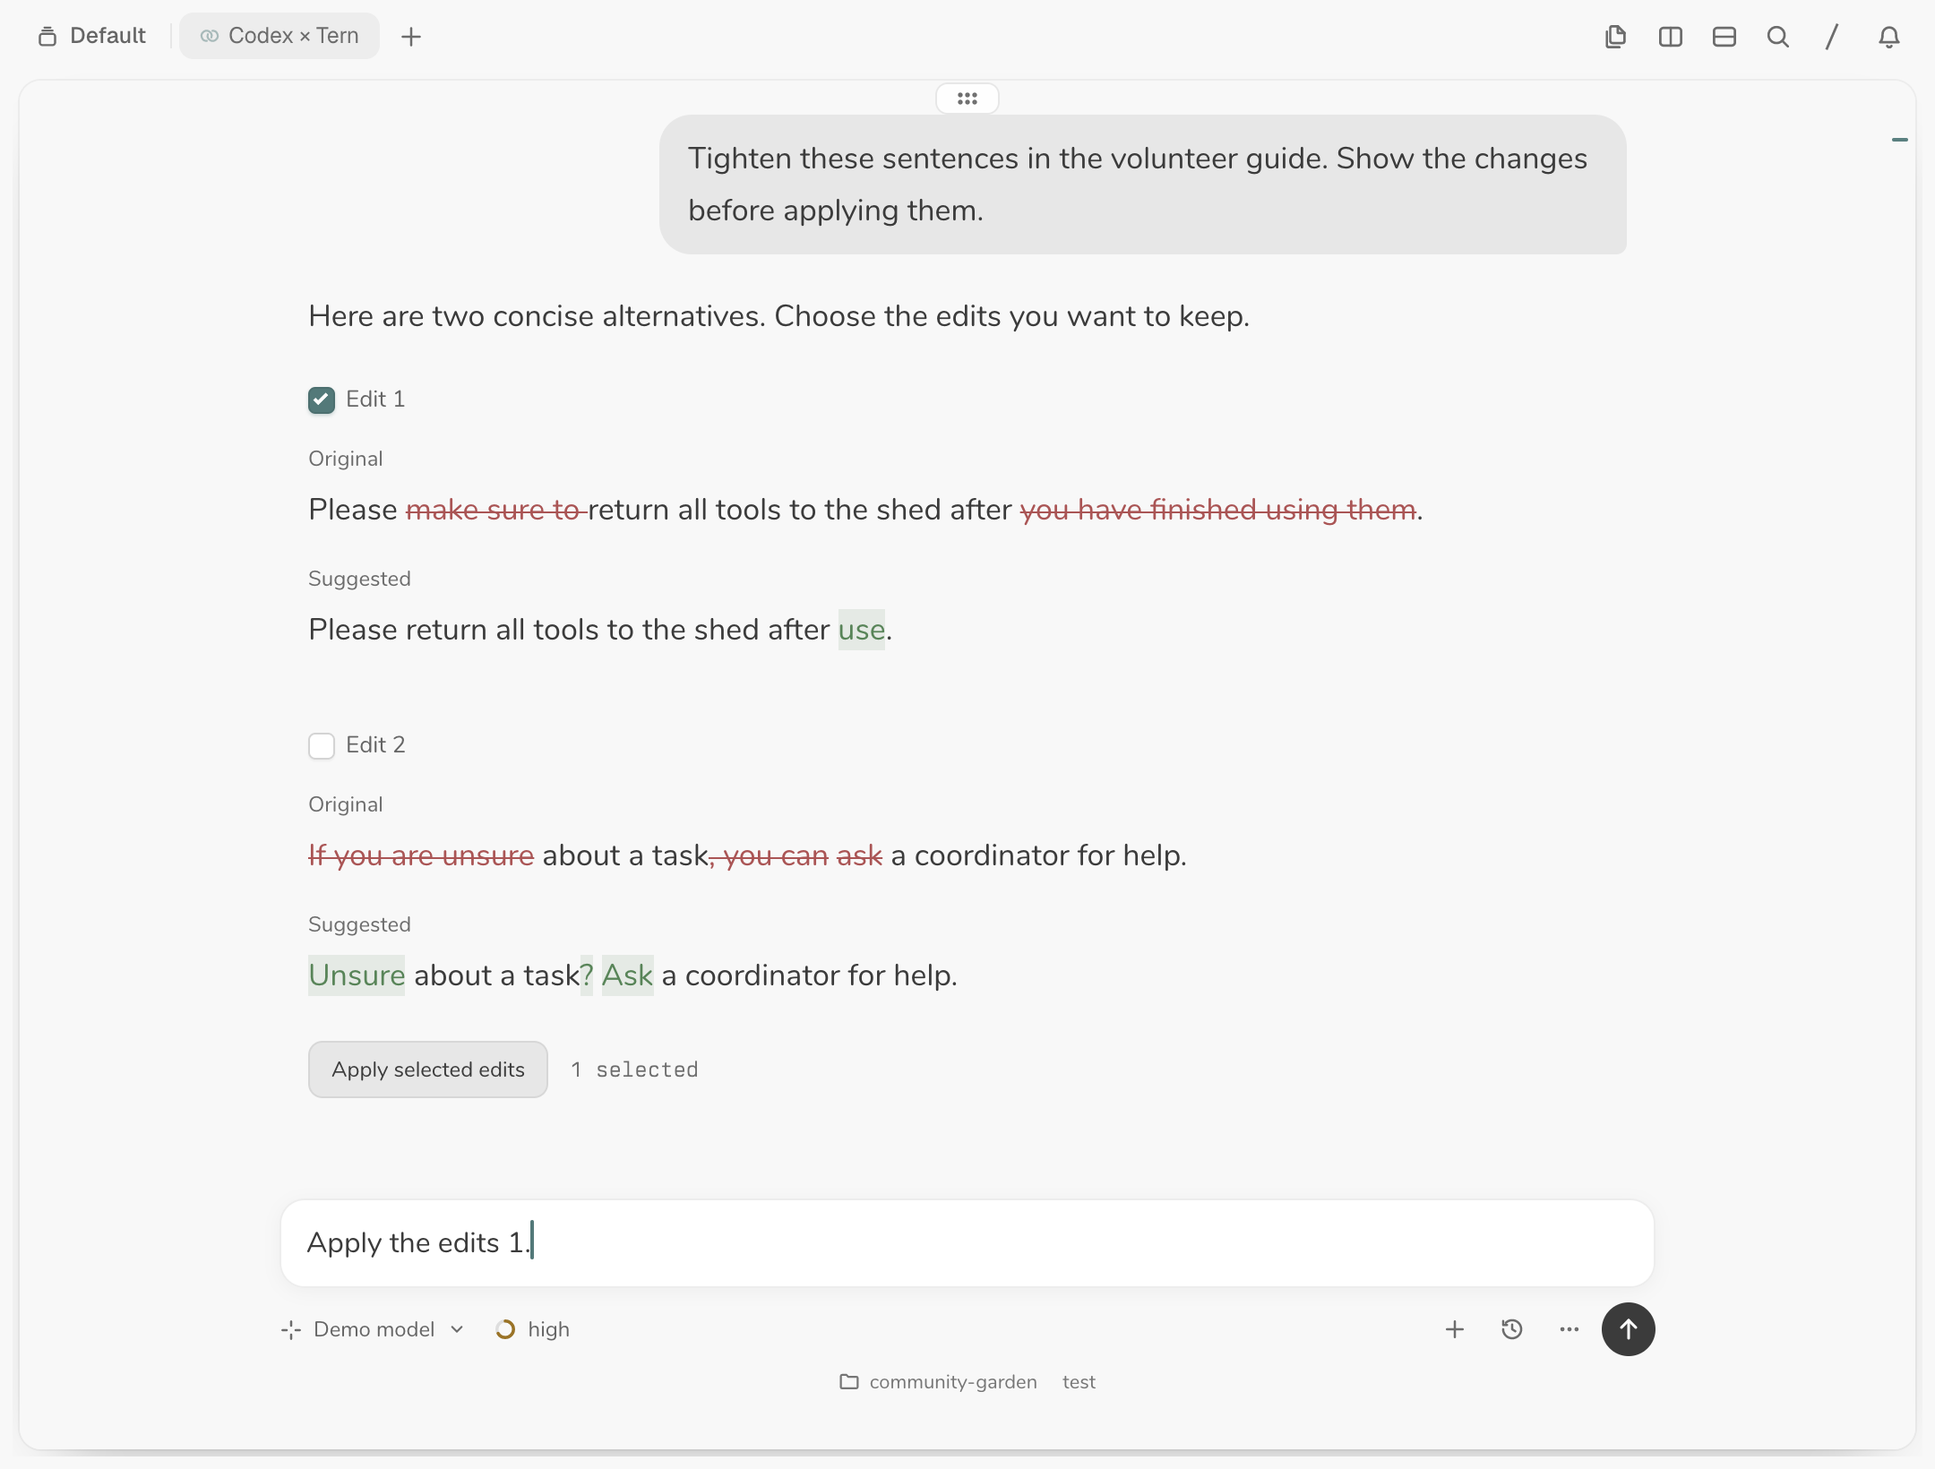
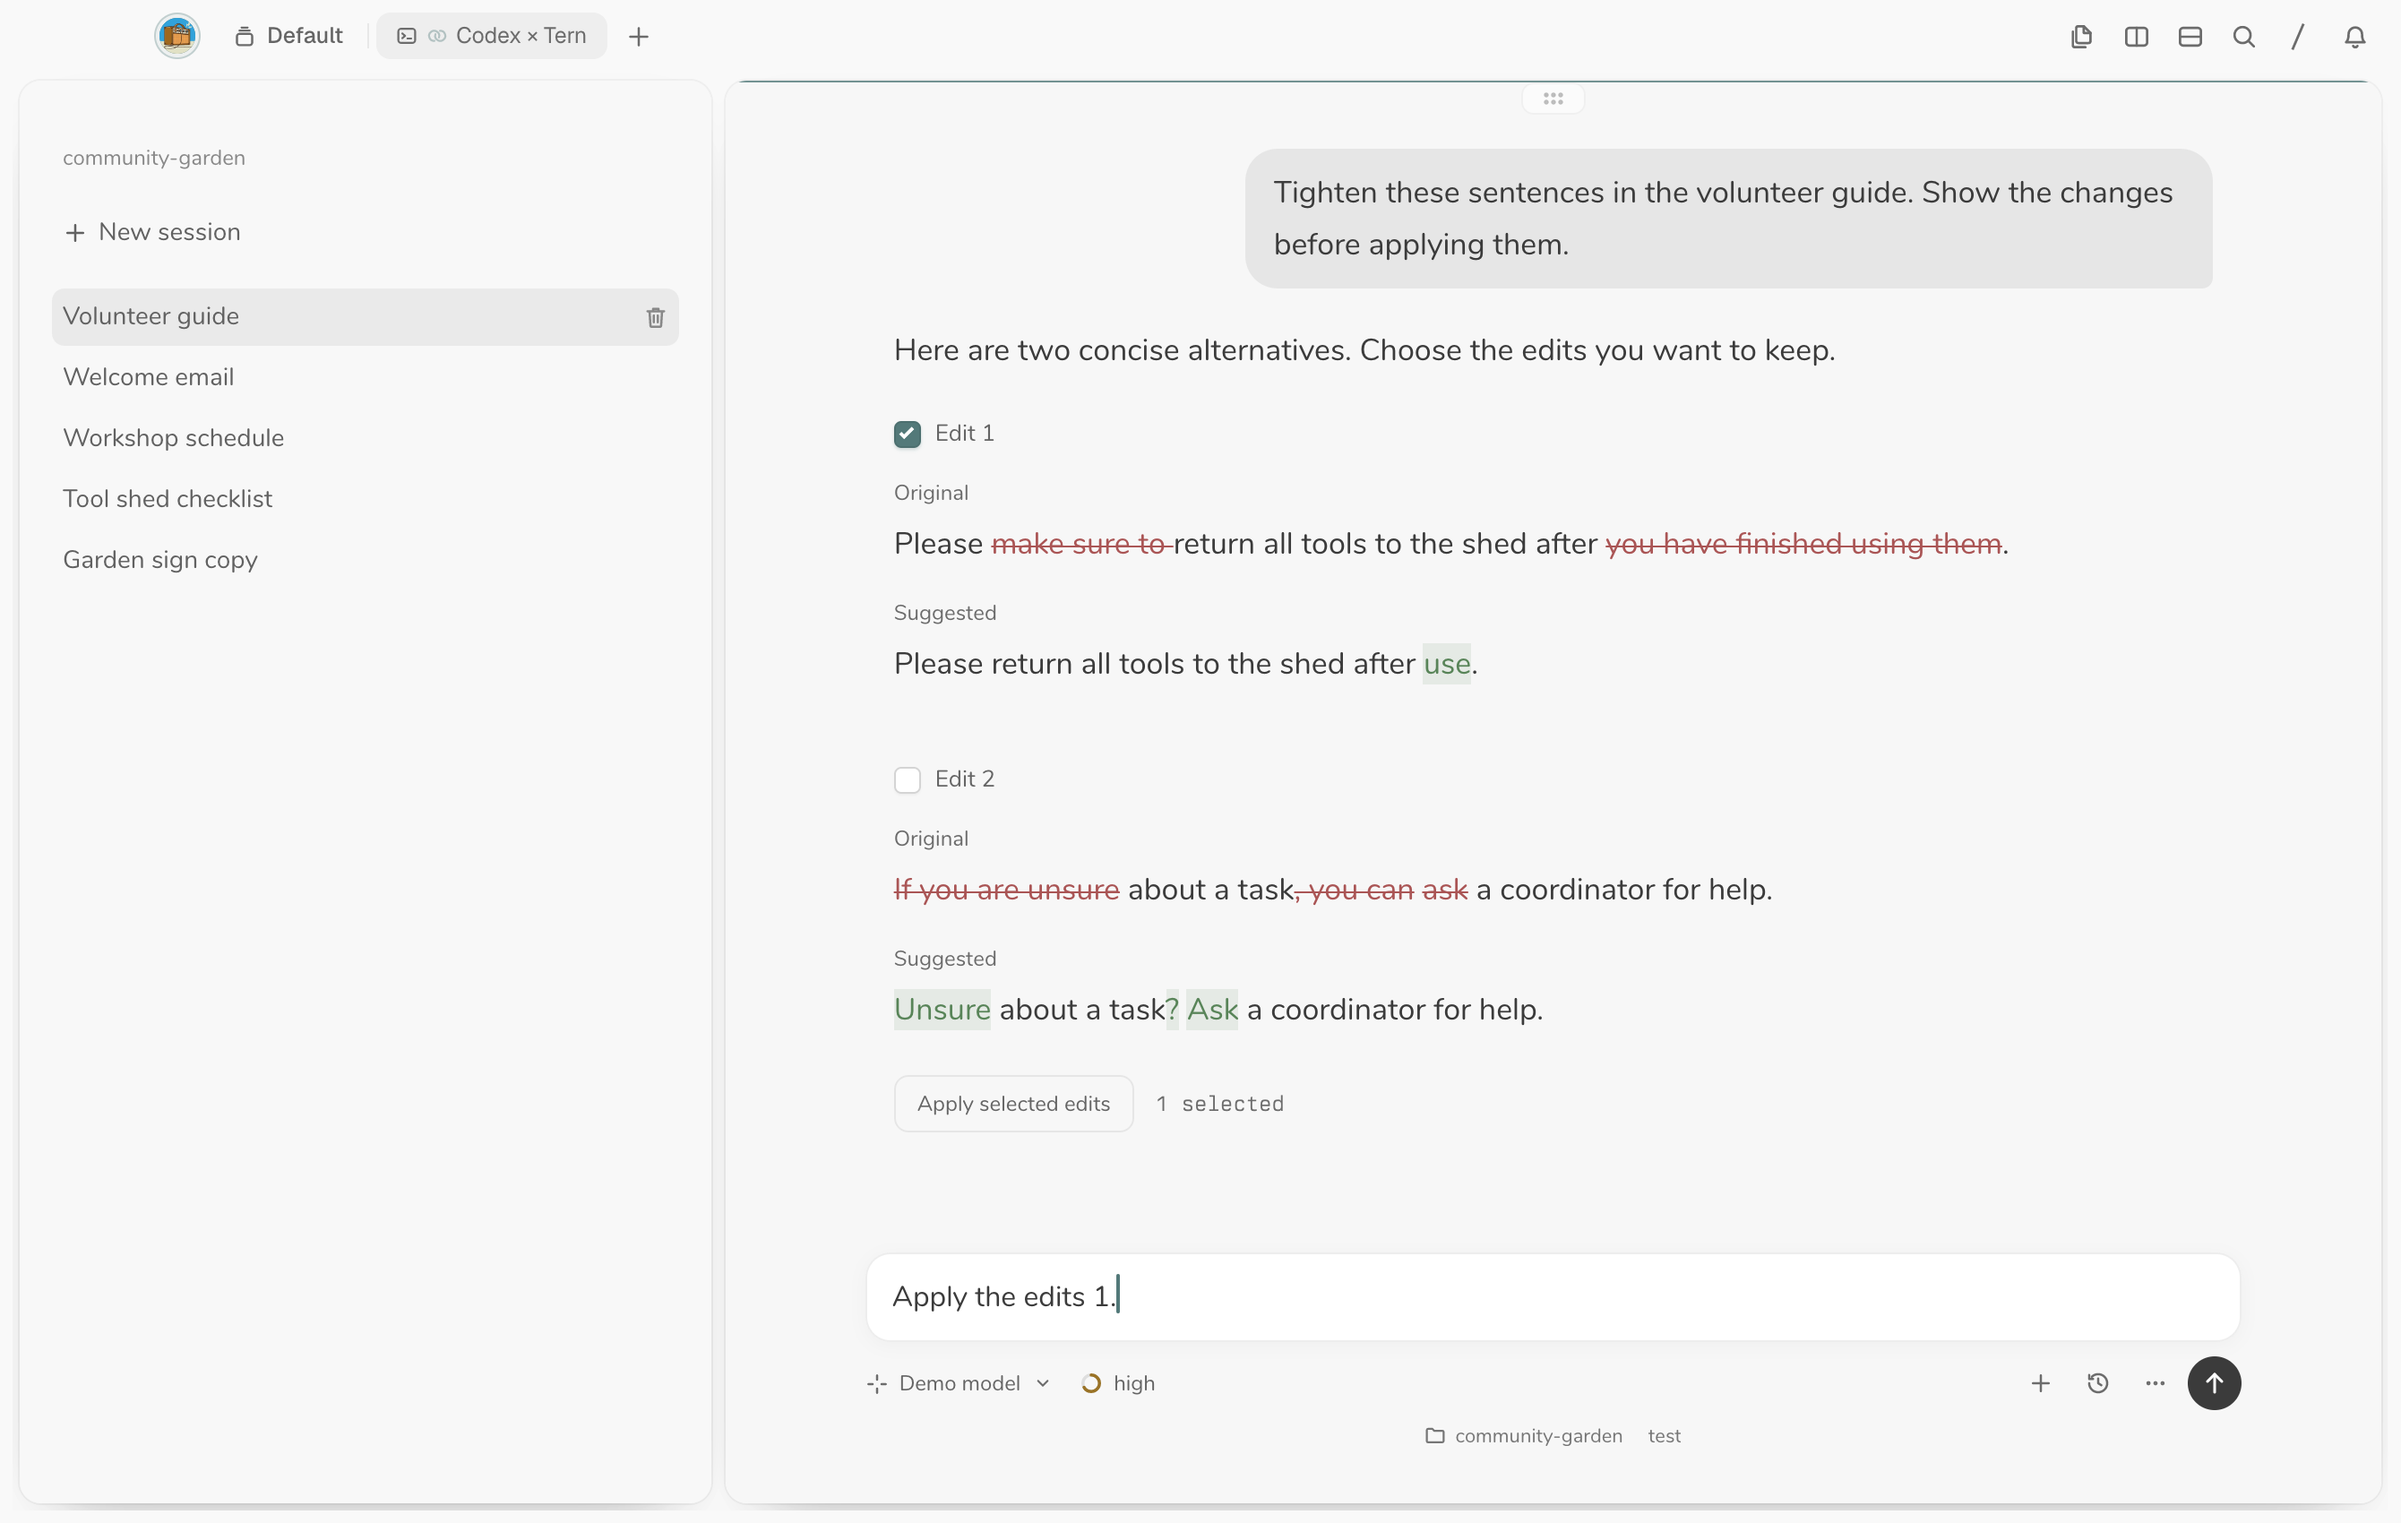
Simplify README text and show the sessions sidebar

diff --git a/README.md b/README.md
@@ -2,19 +2,13 @@
 
 ## What is this?
 
-An unofficial Codex GUI built on [Tern](https://stencil.so/tern). The official Codex harness stays in charge of models, tools, approvals, sandboxing, and sessions. This project adds a native interface with rendered math, images, and file diffs.
+An unofficial Codex GUI built on [Tern](https://stencil.so/tern). The official Codex harness stays in charge of models, tools, approvals, sandboxing, and sessions.
 
 ## How it works
 
 TypeScript and Bun connect to the official `codex app-server` over stdio JSON-RPC. The [Tern Surface Protocol SDK](https://docs.stencil.so/tern/protocol/sdks.html) renders the interface natively. Your existing Codex login and configuration carry over.
 
-**Approve for me** is enabled by default. Codex reviews eligible approval requests automatically and asks you when a decision is still needed.
-
-Writing edits stay in your hands: compare the original and suggested passages, select the changes you want, and review the drafted request before sending it.
-
-![Writing review in Tern: two passages with highlighted changes, only Edit 1 selected, and its apply request waiting in the composer.](docs/images/writing-edits.png)
-
-*Native interface, fictional community garden guide. No private project or conversation data.*
+![Codex × Tern with a sessions sidebar and writing review.](docs/images/writing-edits.png)
 
 ## Use it
 
@@ -37,7 +31,5 @@ codex-tern
 # Or choose a project:
 codex-tern -C /path/to/project
 ```
-
-Sessions run independently, with their own drafts, approvals, and queues. The sidebar keeps them together; launching again returns to the same project instance.
 
 [Usage and appearance](docs/usage.md) · [Writing proposal format](docs/proposals.md) · [Development](docs/development.md)
